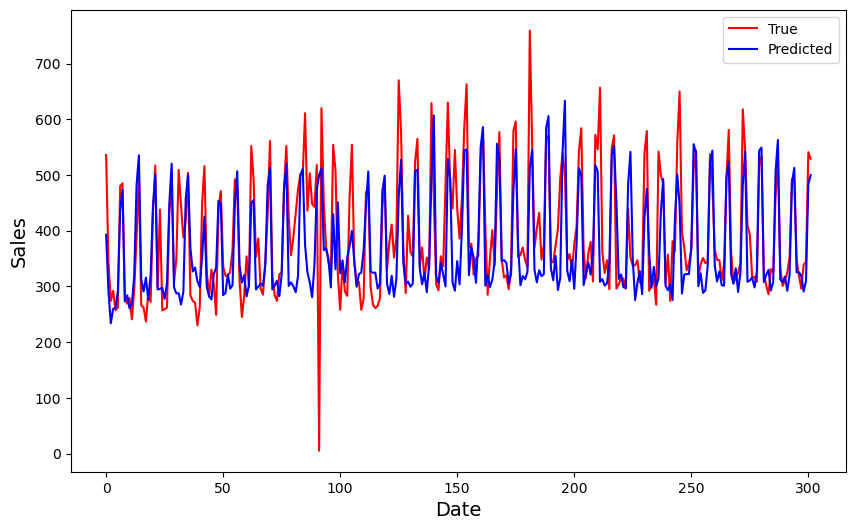
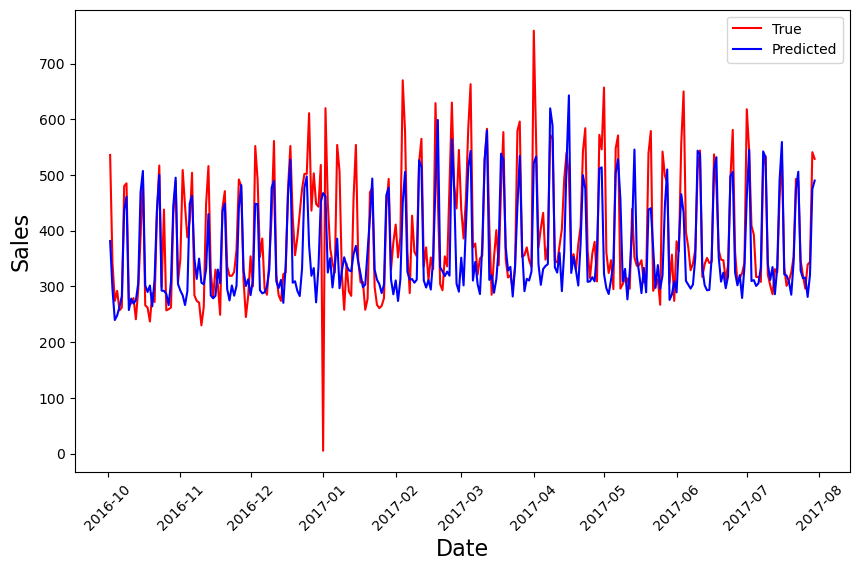
Minor changes

diff --git a/src/main.py b/src/main.py
@@ -1,4 +1,5 @@
 import pandas as pd
+import matplotlib.pyplot as plt
 import torch
 import yaml
 from torch.utils.data import DataLoader
@@ -62,7 +63,6 @@ def main():
         len_series = dataloader_train.dataset.x.shape[2]
         num_feat = dataloader_train.dataset.x.shape[1]
         len_output = dataloader_train.dataset.y.shape[2]
-        # model = TCN(len_series = len_series, num_chan = num_chan, dict_params = dict_params, len_input=100, len_output = 7)
         model = TCN(len_series = len_series, num_feat = num_feat, len_output = len_output, dict_params = dict_params,
                     gated_activation = False)
         #
@@ -79,6 +79,15 @@ def main():
         #
         df_result = pd.concat((df_result, pd.DataFrame({'family': [family], 'mape_train': [mape_train], 'mape_valid': [mape_valid],
                                                         'mape_test': [mape_test]})))
+        #
+        plt.figure(figsize = [10, 6])
+        plt.plot(np.unique(date_y_test), y_true_test, label = 'True', color = 'r')
+        plt.plot(np.unique(date_y_test), y_hat_test, label = 'Predicted', color = 'b')
+        plt.xlabel('Date', fontsize = 16)
+        plt.ylabel('Sales', fontsize = 16)
+        plt.xticks(rotation = 45)
+        plt.legend()
+        plt.savefig('../docs/figures_for_readme/result', bbox_inches = 'tight')
     #
     df_result = df_result.reset_index(drop = True)
     return df_result

diff --git a/src/preprocessing.py b/src/preprocessing.py
@@ -10,7 +10,7 @@ def train_test_splitting(df: pd.DataFrame, dict_params: dict) -> (pd.DataFrame, 
 
     Args:
         df: Dataframe containing time series. The column representing the main series should be called `y`.
-        dict_params: Dictionary containing information about the model architecture.
+        dict_params: Dictionary containing information about data.
 
     Returns:
         df_train: Dataframe corresponding to training set.
@@ -37,7 +37,7 @@ def get_x_y(df: pd.DataFrame, df_future: pd.DataFrame, dict_params: dict, test_s
     Args:
         df: Dataframe containing time series. The column representing the main series should be called `y`.
         df_future: Same as `df`, but corresponding to its future (e.g., `df_valid` could be the "future" of `df_train`).
-        dict_params: Dictionary containing information about the model architecture.
+        dict_params: Dictionary containing information about data.
         test_set: Whether `df` is the dataframe corresponding to test set.
         horizon_forecast: Length of the series to be predicted.
 

diff --git a/src/model.py b/src/model.py
@@ -140,7 +140,7 @@ class TrainTCN():
         
         Args:
             model: PyTorch model.
-            dict_params: Dictionary containing information about the model architecture.
+            dict_params: Dictionary containing information about the training strategy.
             dataloader_train: Dataloader containing training data.
             dataloader_valid: Dataloader containing validation data.
             
